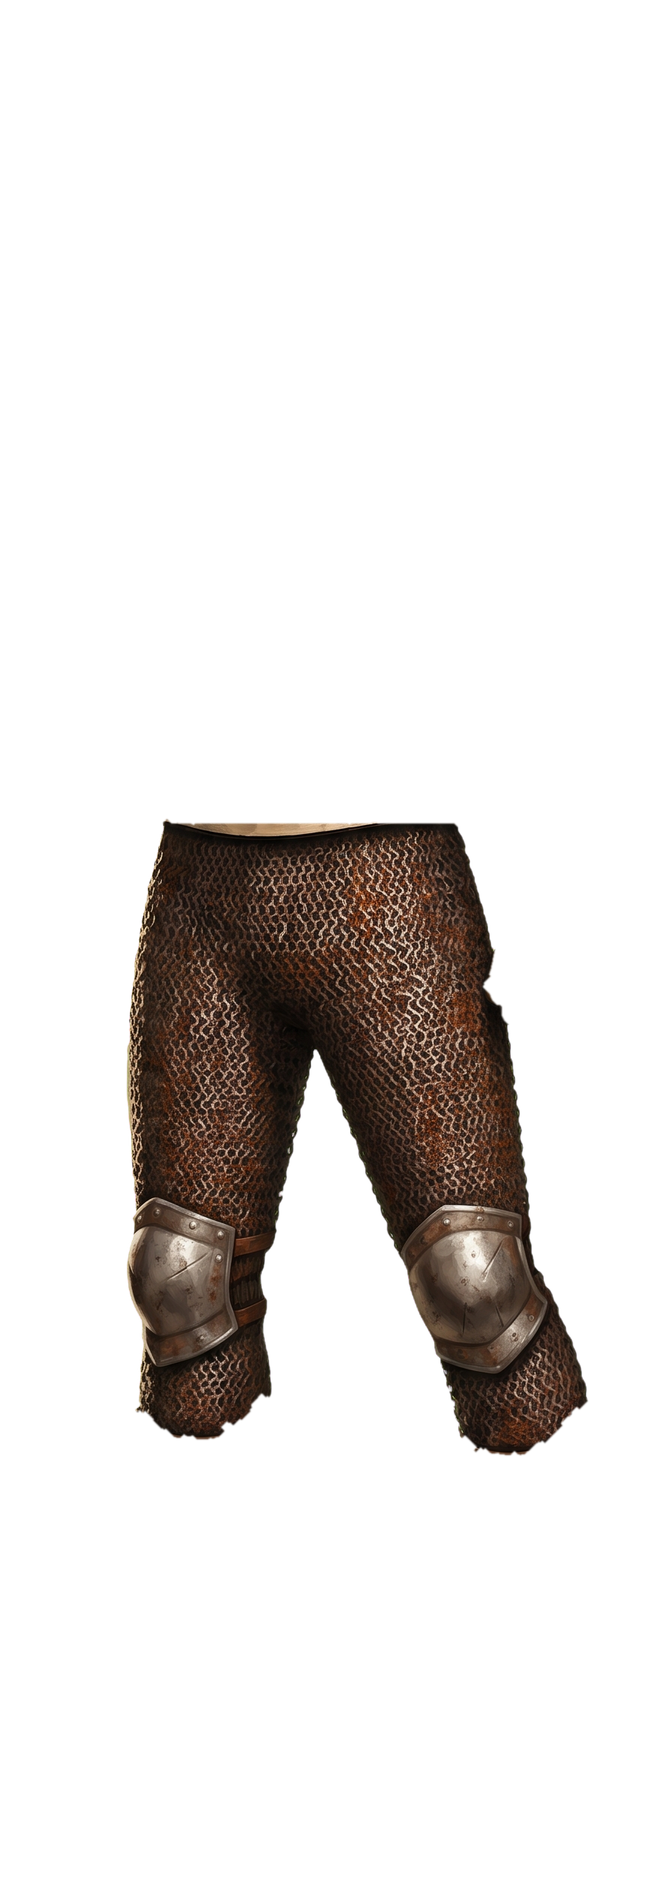
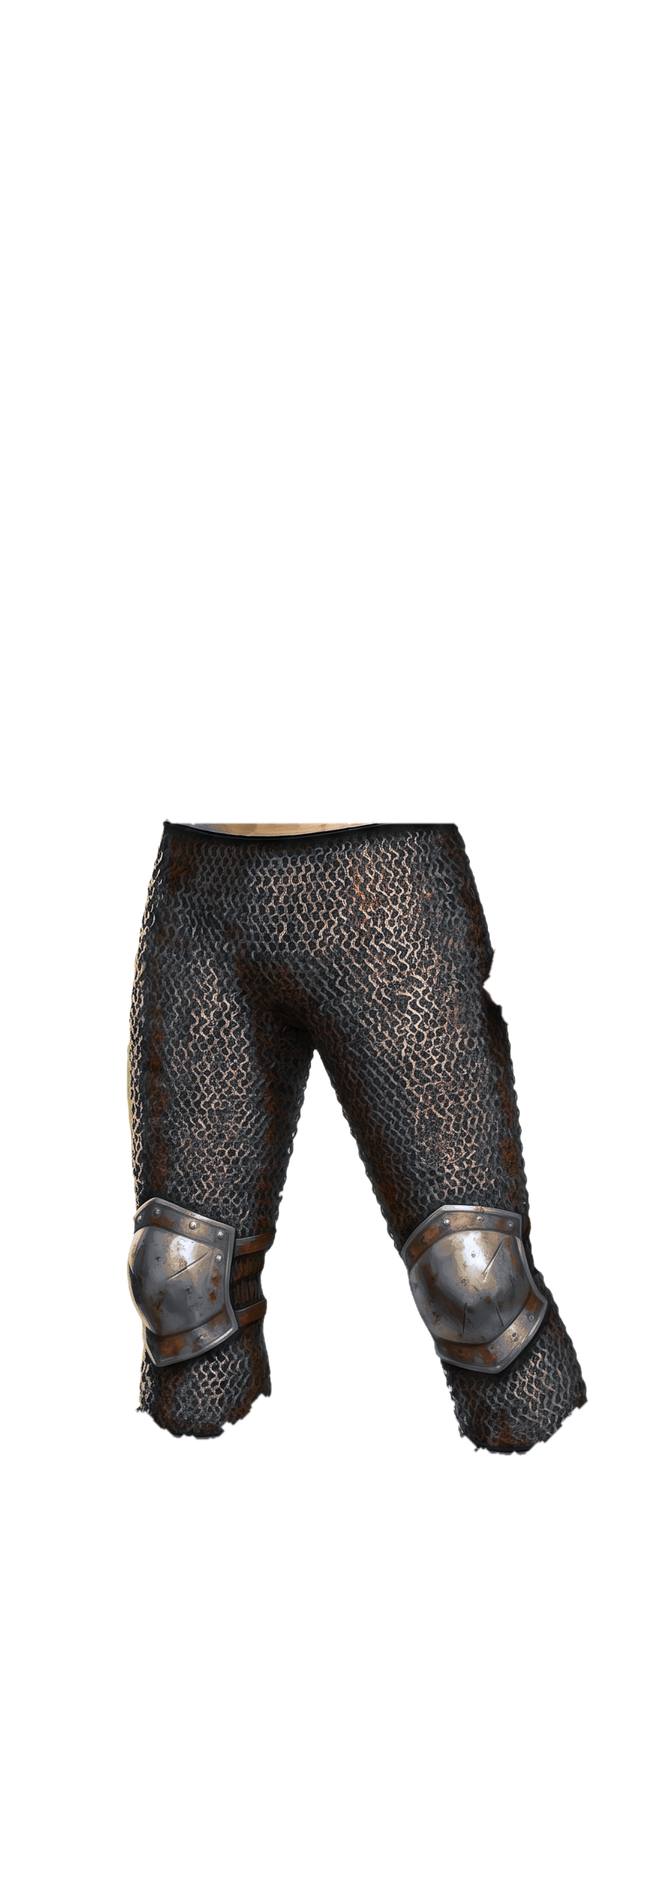
Hero helms: hair always hidden, helm details kept, cape over mail coif, rust-free iron
- One head/hair variant per style for any helm: scalp hair removed, beard and moustache kept
- Leather helm keeps nose guard; gambeson coif keeps chin ties and drops Gemini's stubble
- Cloak front drawn over the chainmail coif
- Chainmail pieces recoloured from rust to raw iron, crude texture kept

Claude-Session: https://claude.ai/code/session_01US55o4xVJF1GBoYStNN9Eo

Changed region(s): [[0.186, 0.4357, 0.8992, 0.778]]

diff --git a/lib/ui/widgets/knight_view.dart b/lib/ui/widgets/knight_view.dart
@@ -108,7 +108,7 @@ class KnightView extends StatelessWidget {
 /// colorabili, testa scelta (viso, capelli e barba), capelli e occhi
 /// colorabili. Tutti i PNG di un corpo hanno la stessa tela, già allineati.
 /// I pezzi d'armatura sono strati `armor_<id>_<posto>.png`; con l'elmo la
-/// testa usa `head_<n>_helm_<id>.png`, senza i capelli che uscirebbero.
+/// testa usa `head_<n>_helm.png`: niente capelli, restano barba e baffi.
 /// Un pezzo che non ha ancora il suo strato semplicemente non si vede:
 /// il personaggio disegnato resta lo stesso in tutte le schermate.
 class HeroView extends StatelessWidget {
@@ -179,7 +179,8 @@ class HeroView extends StatelessWidget {
 
     final helm = armor(ArmorSlot.helm);
     final helmId = worn[ArmorSlot.helm];
-    final hidden = helm != null && Art.has('$d/head_${k}_helm_$helmId.png') ? '_helm_$helmId' : '';
+    // Sotto qualsiasi elmo i capelli spariscono; restano barba e baffi.
+    final hidden = helm != null && Art.has('$d/head_${k}_helm.png') ? '_helm' : '';
     // L'elmo col camaglio copre tutta la testa e porta il suo viso.
     final fullHelm = helm != null && fullHelms.contains(helmId);
     final chestId = worn[ArmorSlot.chest];
@@ -200,13 +201,15 @@ class HeroView extends StatelessWidget {
       if (capeUnder && capeFront != null) (capeFront, null, 1),
       for (final slot in [ArmorSlot.chest, ArmorSlot.gloves])
         if (armor(slot) case final a?) (a, null, 1),
-      if (!capeUnder && capeFront != null) (capeFront, null, 1),
+      if (!capeUnder && !fullHelm && capeFront != null) (capeFront, null, 1),
       if (!fullHelm) ...[
         ('$d/head_$k$hidden.png', null, 1),
         if (look.hair >= 0) ('$d/hair_$k$hidden.png', look.hairColor, 1),
         if (look.eyes >= 0) ('$d/eyes_$k.png', look.eyeColor, 0.8),
       ],
       if (helm != null) (helm, null, 1),
+      // Il camaglio di maglia è ingombrante: il mantello gli passa sopra.
+      if (!capeUnder && fullHelm && capeFront != null) (capeFront, null, 1),
     ];
   }
 
